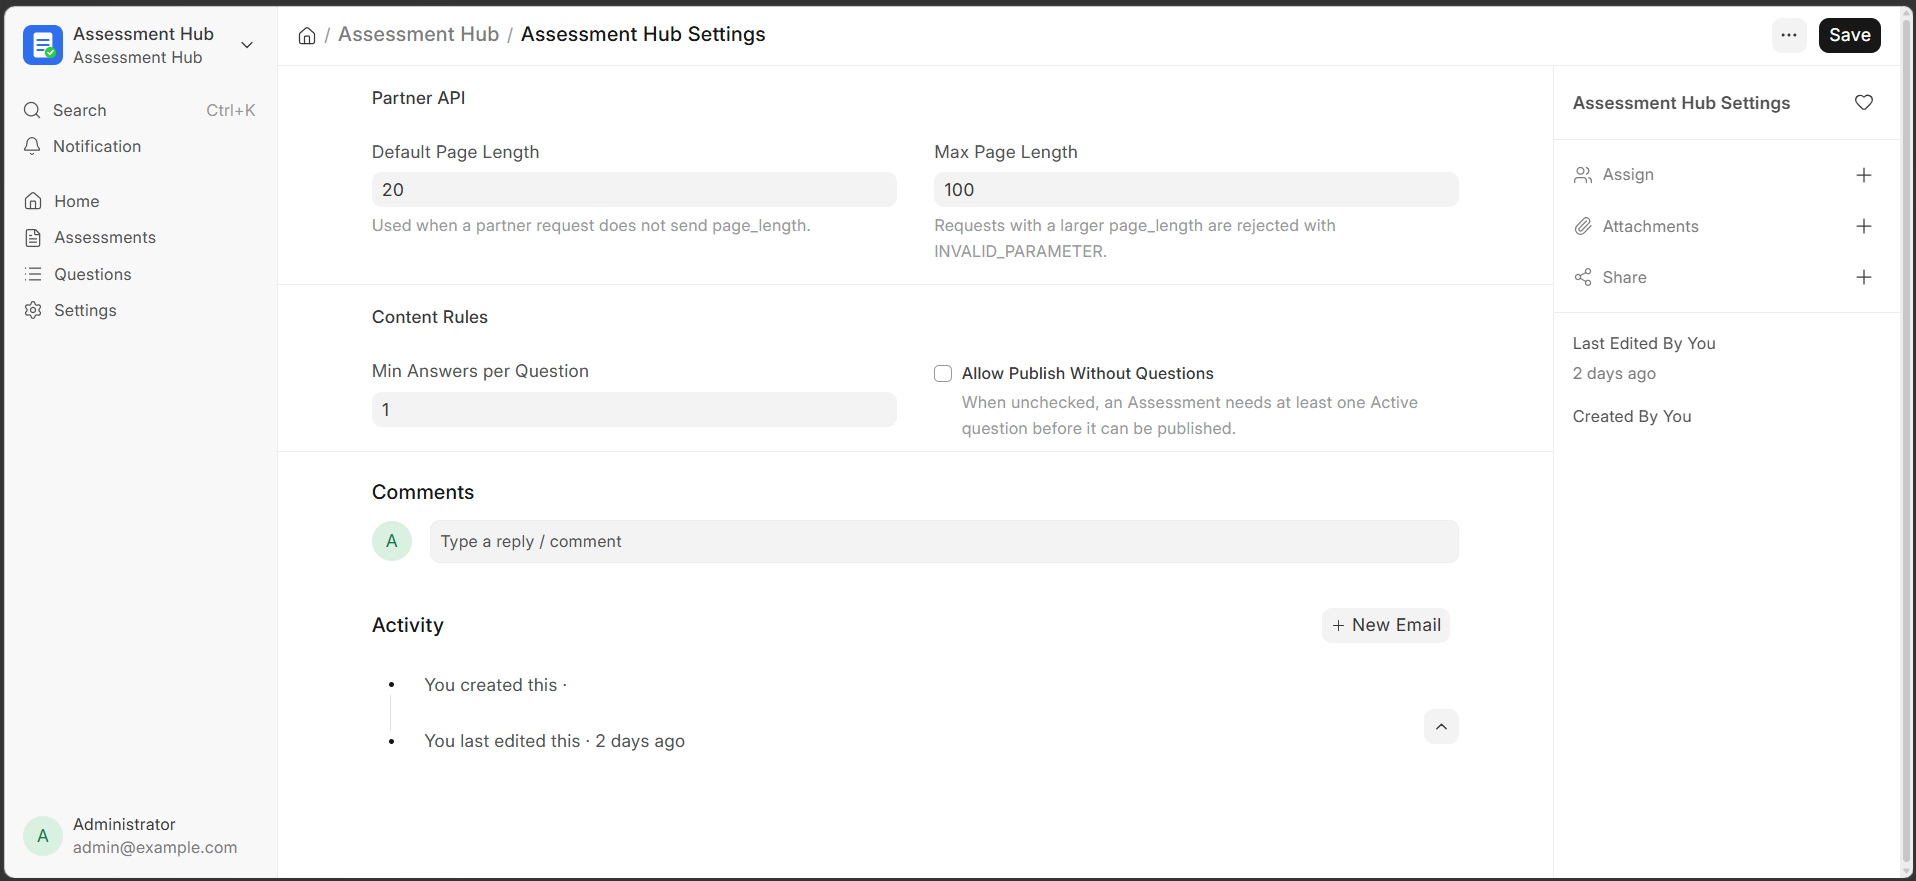
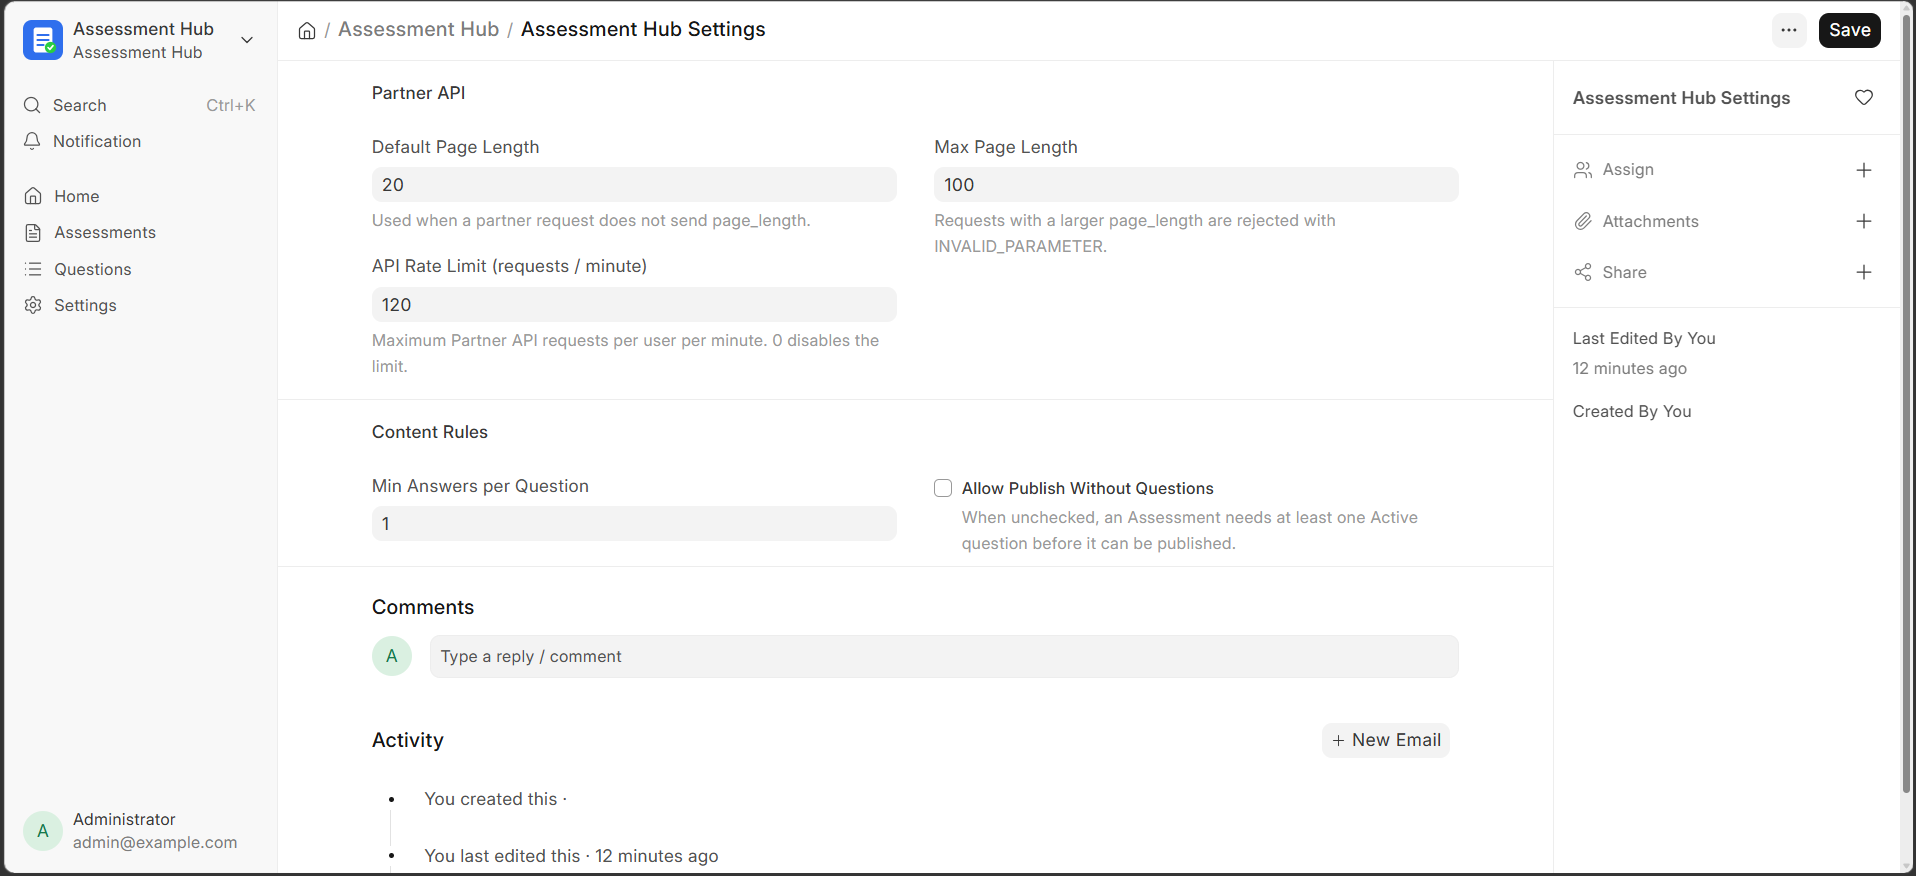
chore: release v1.1.0

diff --git a/CHANGELOG.md b/CHANGELOG.md
@@ -2,7 +2,7 @@
 
 All notable changes to this project are documented here. The format follows Keep a Changelog and the project uses Semantic Versioning.
 
-## [1.1.0] - YYYY-MM-DD
+## [1.1.0] - 2026-09-20
 
 ### Added
 - Per-user API rate limiting (`API Rate Limit (requests / minute)` setting, default 120, 0 = off); HTTP 429 `RATE_LIMITED`.
